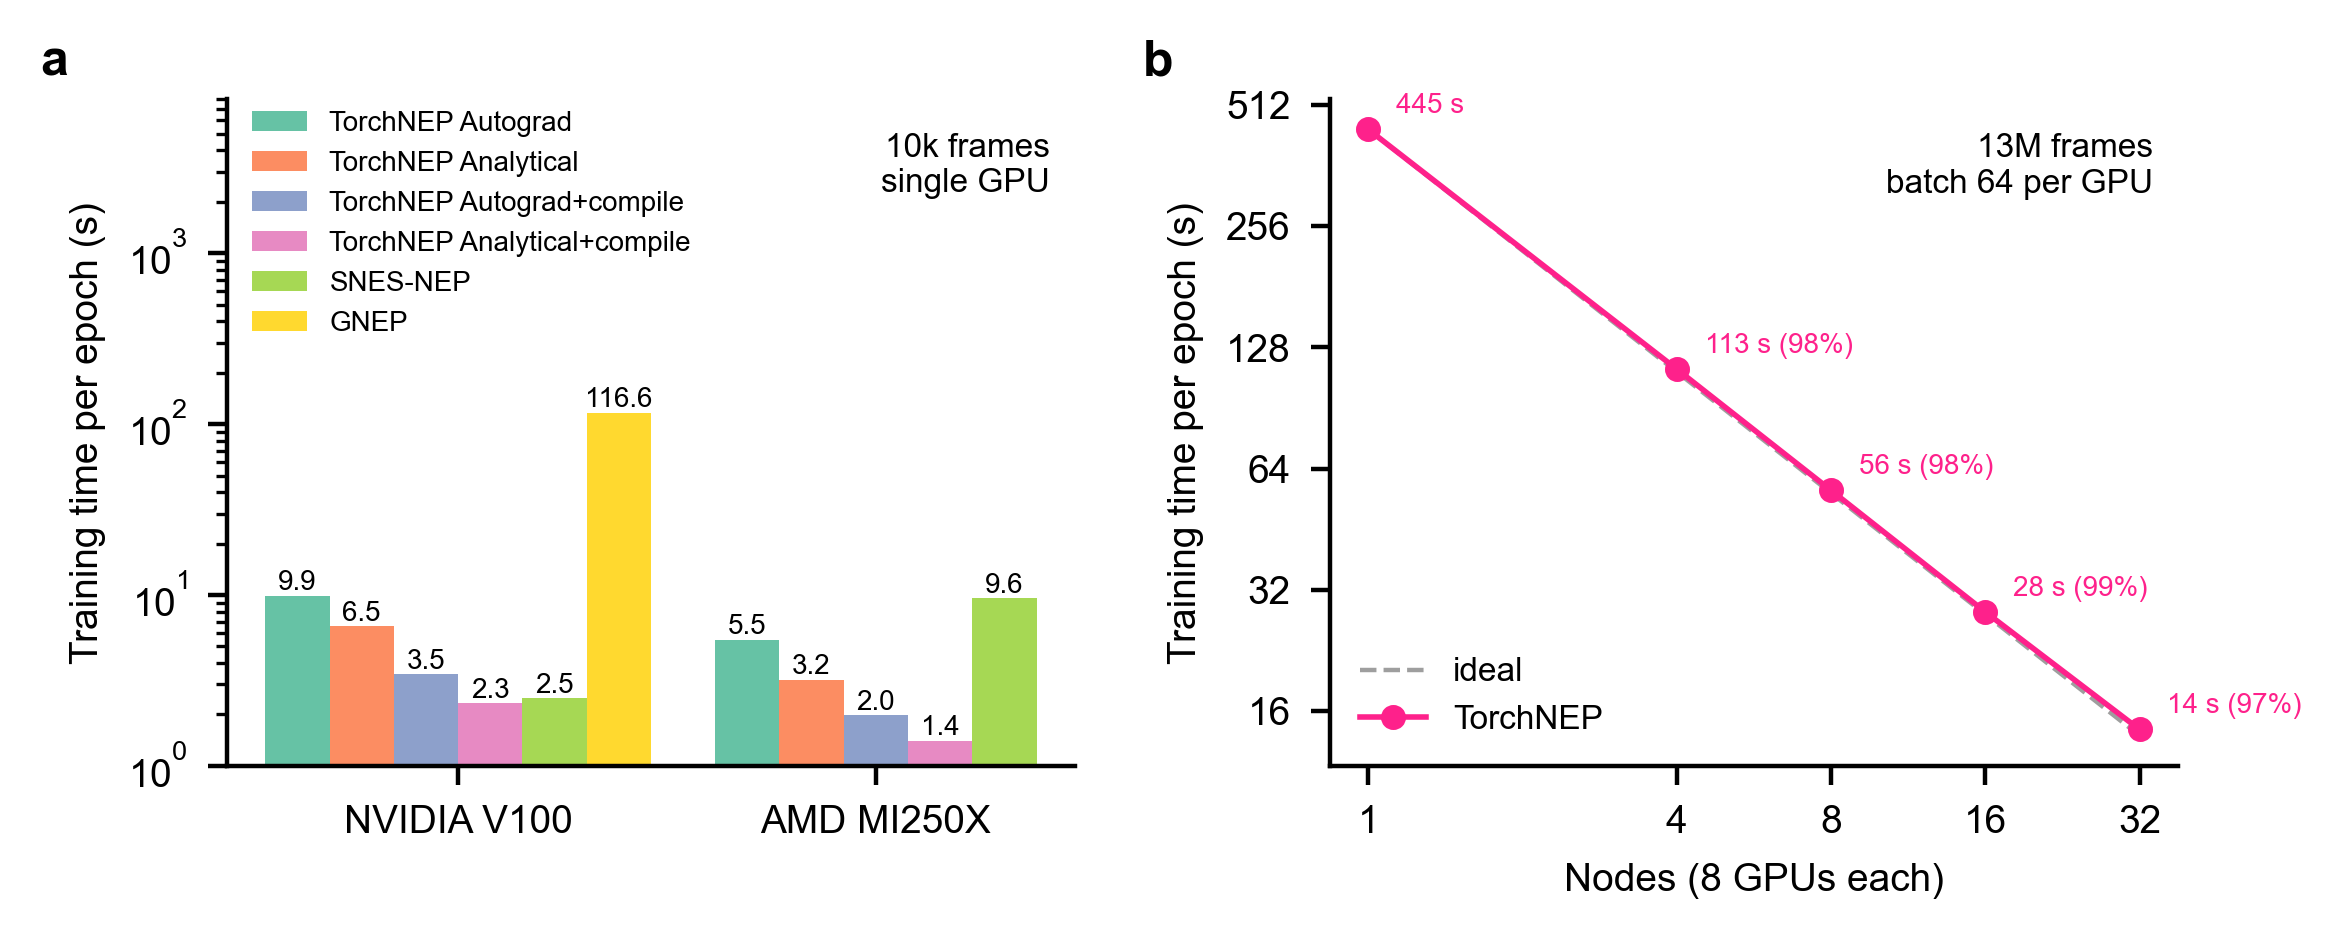
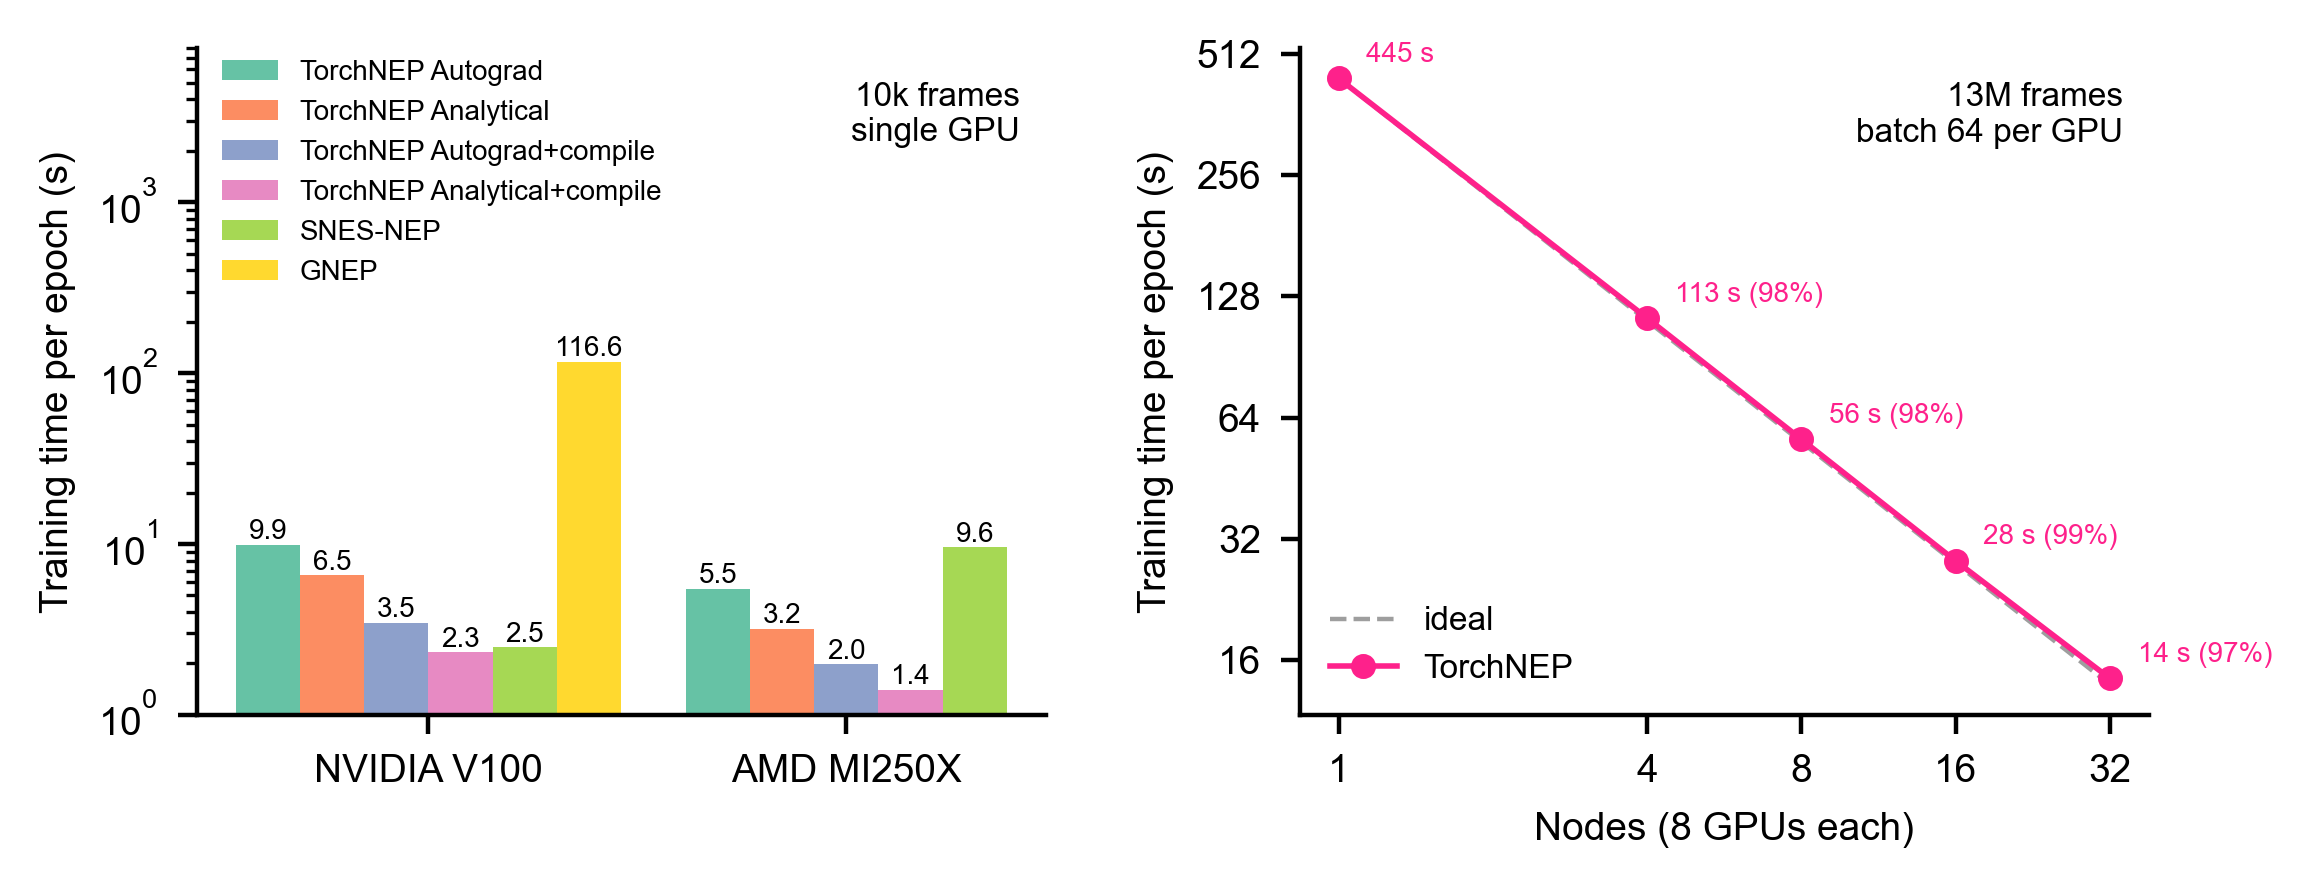
README: figure caption, no panel letters

diff --git a/README.md b/README.md
@@ -21,9 +21,11 @@ Many ready-to-use examples (the training inputs and trained models of the TorchN
 - 🔧 **Fine-tuning** — load any `nep.txt` or `checkpoint.pt` to fine-tune; optionally slim the model to only the element types present in the new dataset
 - 🛡 **ZBL** — universal ZBL repulsive potential with optional typewise cutoffs
 
-![Training speed and scaling](assets/speed_scaling.png)
-
-Fast on a single GPU (**a**, a 10k-frame set on NVIDIA V100 and AMD MI250X, compared with SNES-NEP and GNEP) and near-linear across nodes (**b**, a 13M-frame set from 1 to 32 nodes with 8 GPUs each, above 96% parallel efficiency).
+<p align="center">
+  <img src="assets/speed_scaling.png" alt="Training speed and scaling" width="90%">
+  <br>
+  <em>Excellent single-GPU training speed (left) and near-linear multi-node parallel scaling (right).</em>
+</p>
 
 ---
 
